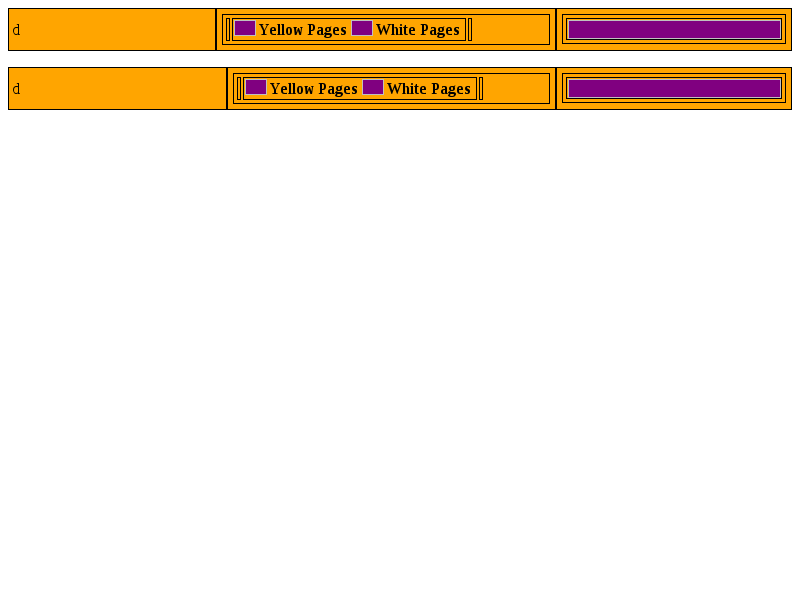
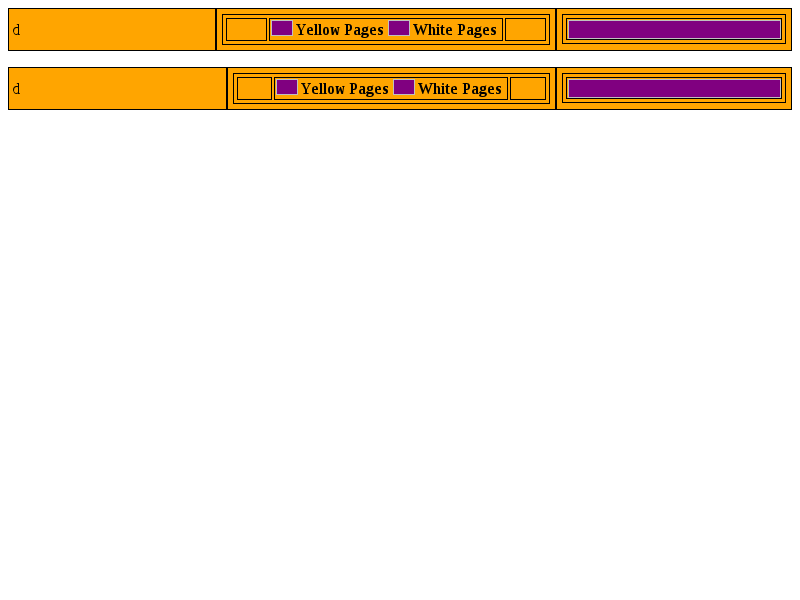
Table with percentage column widths doesn't scale to fill the entire width of a table containing it https://bugs.webkit.org/show_bug.cgi?id=11645
Patch by Arpita Bahuguna <arpitabahuguna@gmail.com> on 2012-10-31
Reviewed by Julien Chaffraix.

Source/WebCore:

When the inner (or nested) table has auto width and column(s) with
percent width, we should scale our column(s) to the width of the
containing table (unless it has auto width).

Test: fast/table/scale-nested-percent-width-cols.html

* rendering/AutoTableLayout.cpp:
(WebCore::shouldScaleColumns):
If the containing table width was of percent type, we were disallowing
our inner or nested table's column from scaling to the size of the parent
table. We should prohibit the scaling of the nested table columns only
if the parent table has auto width.

LayoutTests:

* fast/table/scale-nested-percent-width-cols-expected.html: Added.
* fast/table/scale-nested-percent-width-cols.html: Added.
Added a ref test verifying that our nested (auto width) table's columns
are scaled and sized appropriately if the containing table has
percent width.

* platform/chromium/TestExpectations:
* platform/efl/TestExpectations:
* platform/gtk/TestExpectations:
* platform/mac/TestExpectations:
* platform/win/TestExpectations:
Added an entry for fast/table/025.html for these ports. It would need
rebaselining as a result of this fix.

* platform/qt/fast/table/025-expected.png:
* platform/qt/fast/table/025-expected.txt:
Modified expected results for the existing test on qt port.

In the given test, our innermost nested table has auto width and consits
[…]

Changed region(s): [[0.2812, 0.12, 0.6562, 0.18], [0.2812, 0.03, 0.6562, 0.06]]

diff --git a/LayoutTests/fast/table/scale-nested-percent-width-cols.html b/LayoutTests/fast/table/scale-nested-percent-width-cols.html
@@ -1,0 +1,60 @@
+<!DOCTYPE html>
+<html>
+<head>
+<style>
+.yellow {
+    width: 800px;
+    background-color: yellow;
+}
+.red {
+    width: 100%;
+    background-color: red;
+    border-spacing: 0px;
+}
+.green {
+    background-color: green;
+}
+</style>
+</head>
+<body>
+<p>Test for Bugzilla <a href="https://bugs.webkit.org/show_bug.cgi?id=11645">Bug 11645</a>:  Table with percentage column widths doesn't scale to fill the entire width of a table containing it.</p>
+<p>When the inner table has auto width and the table column(s) have percent width, we should grow or scale our column(s) to the size of the containing table unless it has auto width.</p>
+<p>No red background color should be visible for the following two tables.</p>
+<table class="yellow">
+    <tr>
+        <td>
+            <table class="red">
+                <tr>
+                    <td style="padding: 0px;">
+                        <table class="green">
+                            <tr>
+                                <td style="width: 100px; background-color: white;">A</td>
+                                <td style="width: 95%;">B</td>                                
+                            </tr>
+                        </table>
+                    </td>
+                </tr>
+            </table>
+        </td>
+    </tr>
+</table>
+<table class="yellow">
+    <tr>
+        <td>
+            <table class="red">
+                <tr>
+                    <td style="padding: 0px;">
+                        <table class="green">
+                            <tr>
+                                <td style="width: 95%;">B</td>
+                                <td style="width: 100px; background-color: white;">A</td>                                
+                            </tr>
+                        </table>
+                    </td>
+                </tr>
+            </table>
+        </td>
+    </tr>
+</table>
+</body>
+</html>

diff --git a/LayoutTests/fast/table/scale-nested-percent-width-cols-expected.html b/LayoutTests/fast/table/scale-nested-percent-width-cols-expected.html
@@ -1,0 +1,62 @@
+<!DOCTYPE html>
+<html>
+<head>
+<style>
+.yellow {
+    width: 800px;
+    background-color: yellow;
+}
+.red {
+    width: 794px;
+    background-color: red;
+    border-spacing: 0px;
+}
+.green {
+    width: 794px;
+    background-color: green;
+}
+</style>
+</head>
+<body>
+<p>Test for Bugzilla <a href="https://bugs.webkit.org/show_bug.cgi?id=11645">Bug 11645</a>:  Table with percentage column widths doesn't scale to fill the entire width of a table containing it.</p>
+<p>When the inner table has auto width and the table column(s) have percent width, we should grow or scale our column(s) to the size of the containing table unless it has auto width.</p>
+<p>No red background color should be visible for the following two tables.</p>
+<table class="yellow">
+    <tr>
+        <td>
+            <table class="red">
+                <tr>
+                    <td style="padding: 0px;">
+                        <table class="green">
+                            <tr>
+                                <td style="width: 100px; background-color: white;">A</td>
+                                <td style="width: 95%;">B</td>
+                            </tr>
+                        </table>
+                    </td>
+                </tr>
+            </table>
+        </td>
+    </tr>
+</table>
+<table class="yellow">
+    <tr>
+        <td>
+            <table class="red">
+                <tr>
+                    <td style="padding: 0px;">
+                        <table class="green">
+                            <tr>
+                                <td style="width: 95%;">B</td>
+                                <td style="width: 100px; background: white;">A</td>                                
+                            </tr>
+                        </table>
+                    </td>
+                </tr>
+            </table>
+        </td>
+    </tr>
+</table>
+</body>
+</html>
+

diff --git a/Source/WebCore/rendering/AutoTableLayout.cpp b/Source/WebCore/rendering/AutoTableLayout.cpp
@@ -196,15 +196,11 @@ static bool shouldScaleColumns(RenderTable* table)
             table = 0;
             if (cb && cb->isTableCell() &&
                 (cb->style()->width().isAuto() || cb->style()->width().isPercent())) {
-                if (tw.isPercent())
+                RenderTableCell* cell = toRenderTableCell(cb);
+                if (cell->colSpan() > 1 || cell->table()->style()->width().isAuto())
                     scale = false;
-                else {
-                    RenderTableCell* cell = toRenderTableCell(cb);
-                    if (cell->colSpan() > 1 || cell->table()->style()->width().isAuto())
-                        scale = false;
-                    else
-                        table = cell->table();
-                }
+                else
+                    table = cell->table();
             }
         }
         else
